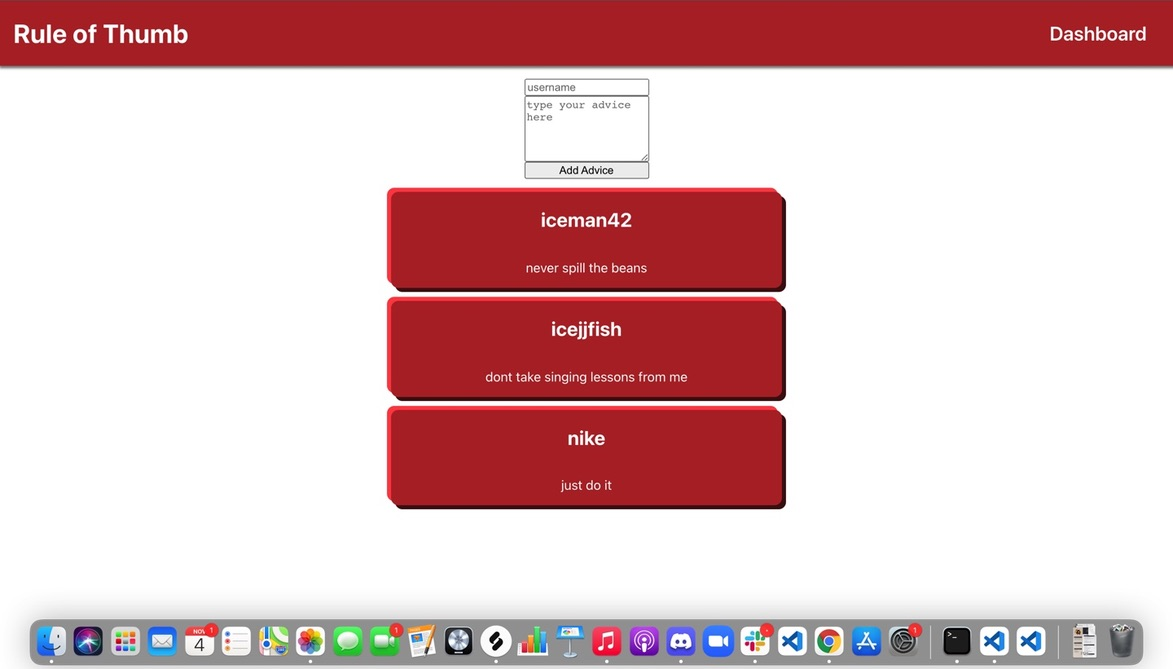
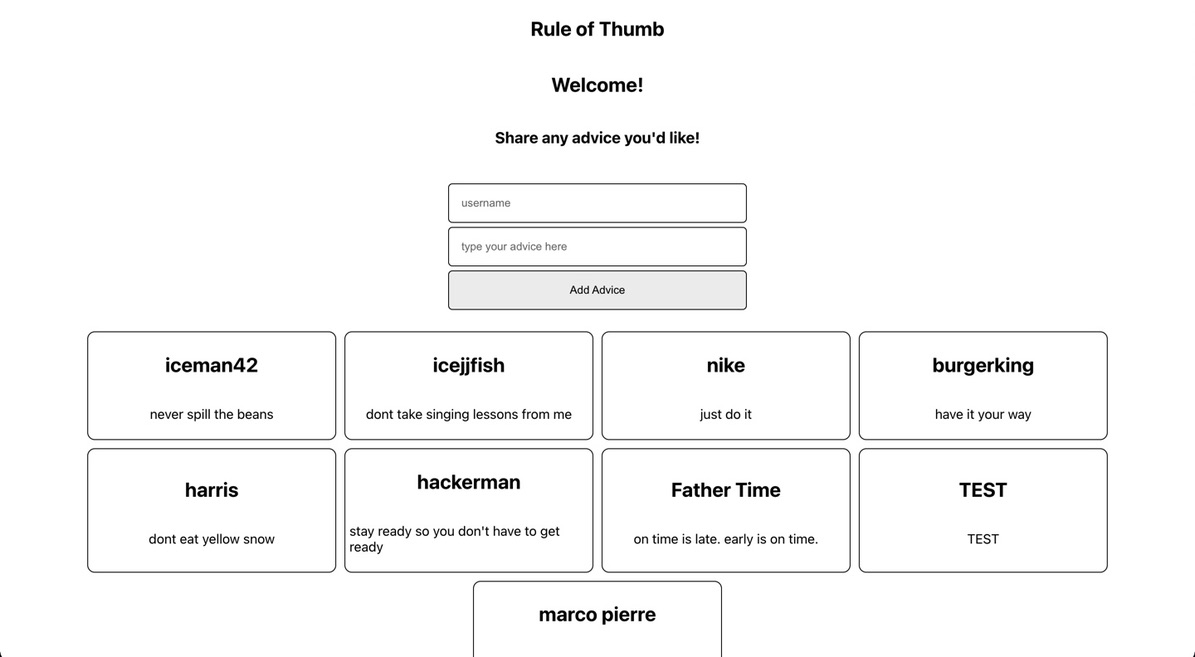
adds a welcoming text and changes read me screenshots

diff --git a/src/pages/Dashboard.js b/src/pages/Dashboard.js
@@ -36,7 +36,8 @@ console.log(props.advice)
      <div>
 
      <section>
-
+    <h2>Welcome!</h2>
+    <h3>Share any advice you'd like!</h3>
     <form onSubmit={handleSubmit}>
         <input 
         type="text" 
@@ -68,7 +69,3 @@ console.log(props.advice)
 export default Dashboard;
 
 
-// QUESTIONS FOR IAN
-// 1. Why is it failing to fetch the URL?
-// 2. Should the add advice be a seperate component?
-// 3. 
